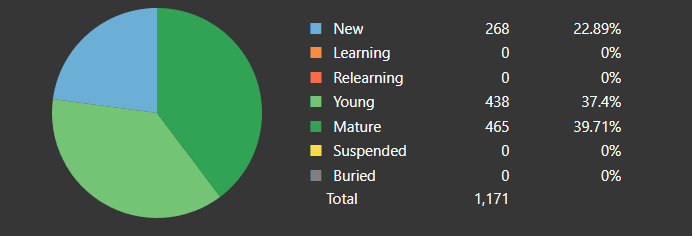
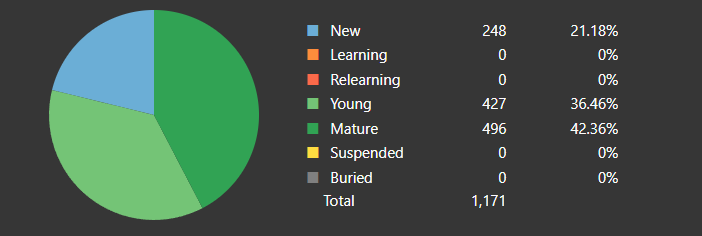
Deployed 24d75a8 with MkDocs version: 1.5.3

diff --git a/index.html b/index.html
@@ -423,15 +423,15 @@
       <ul class="md-nav__list">
         
           <li class="md-nav__item">
-  <a href="#tango-n5-as-of-111323" class="md-nav__link">
-    Tango N5 as of 11/13/23
+  <a href="#tango-n5-as-of-111523" class="md-nav__link">
+    Tango N5 as of 11/15/23
   </a>
   
 </li>
         
           <li class="md-nav__item">
-  <a href="#tango-n4-as-of-111323" class="md-nav__link">
-    Tango N4 as of 11/13/23
+  <a href="#tango-n4-as-of-111523" class="md-nav__link">
+    Tango N4 as of 11/15/23
   </a>
   
 </li>
@@ -1920,15 +1920,15 @@
       <ul class="md-nav__list">
         
           <li class="md-nav__item">
-  <a href="#tango-n5-as-of-111323" class="md-nav__link">
-    Tango N5 as of 11/13/23
+  <a href="#tango-n5-as-of-111523" class="md-nav__link">
+    Tango N5 as of 11/15/23
   </a>
   
 </li>
         
           <li class="md-nav__item">
-  <a href="#tango-n4-as-of-111323" class="md-nav__link">
-    Tango N4 as of 11/13/23
+  <a href="#tango-n4-as-of-111523" class="md-nav__link">
+    Tango N4 as of 11/15/23
   </a>
   
 </li>
@@ -1995,13 +1995,13 @@
 
 <h1 id="docjp-landing-page">doc.jp Landing Page<a class="headerlink" href="#docjp-landing-page" title="Permanent link">&para;</a></h1>
 <h2 id="anki-deck-card-counts">Anki Deck Card Counts<a class="headerlink" href="#anki-deck-card-counts" title="Permanent link">&para;</a></h2>
-<h3 id="tango-n5-as-of-111323">Tango N5 as of 11/13/23<a class="headerlink" href="#tango-n5-as-of-111323" title="Permanent link">&para;</a></h3>
-<p><strong>903</strong> vocabulary words known with <strong>268</strong> new cards remaining </p>
+<h3 id="tango-n5-as-of-111523">Tango N5 as of 11/15/23<a class="headerlink" href="#tango-n5-as-of-111523" title="Permanent link">&para;</a></h3>
+<p><strong>923</strong> vocabulary words known with <strong>248</strong> new cards remaining </p>
 <ul>
 <li>On track to finish all new cards on <strong>12/10/23</strong> doing <strong>10</strong> new cards a day.</li>
 </ul>
 <p><img align="center" alt="Card Counts" src="assets/anki-stats/n5-card-counts.png" /></p>
-<h3 id="tango-n4-as-of-111323">Tango N4 as of 11/13/23<a class="headerlink" href="#tango-n4-as-of-111323" title="Permanent link">&para;</a></h3>
+<h3 id="tango-n4-as-of-111523">Tango N4 as of 11/15/23<a class="headerlink" href="#tango-n4-as-of-111523" title="Permanent link">&para;</a></h3>
 <p><strong>0</strong> vocabulary words known with <strong>917</strong> new cards remaining: Haven't started this deck yet.</p>
 <p><img align="center" alt="Card Counts" src="assets/anki-stats/n4-card-counts.png" /></p>
 <h2 id="grammar-learning">Grammar Learning<a class="headerlink" href="#grammar-learning" title="Permanent link">&para;</a></h2>
